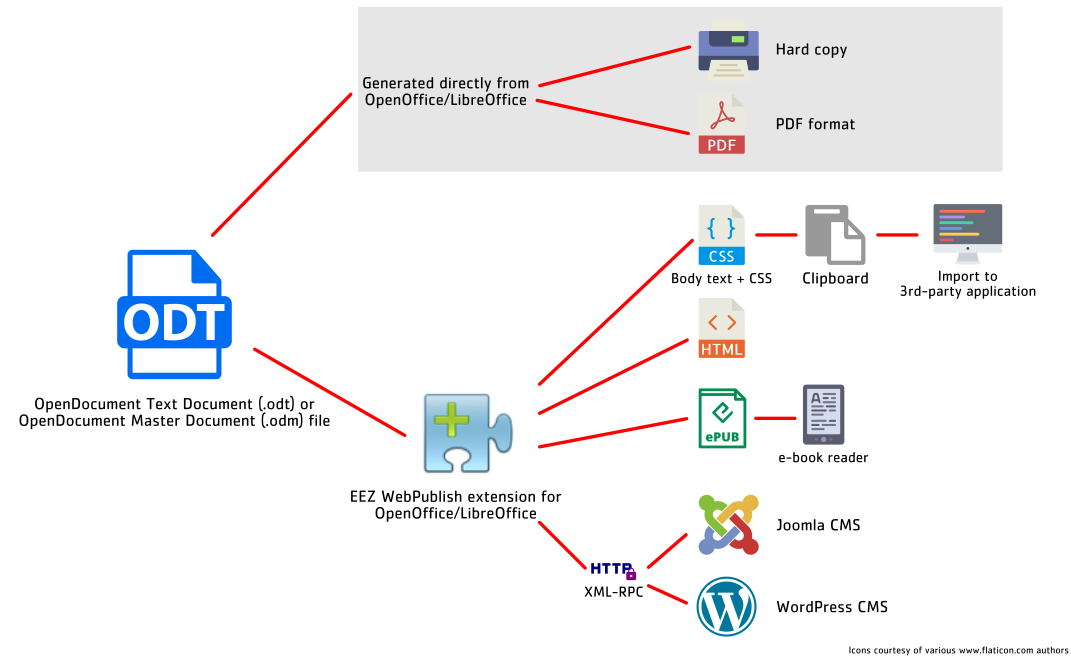
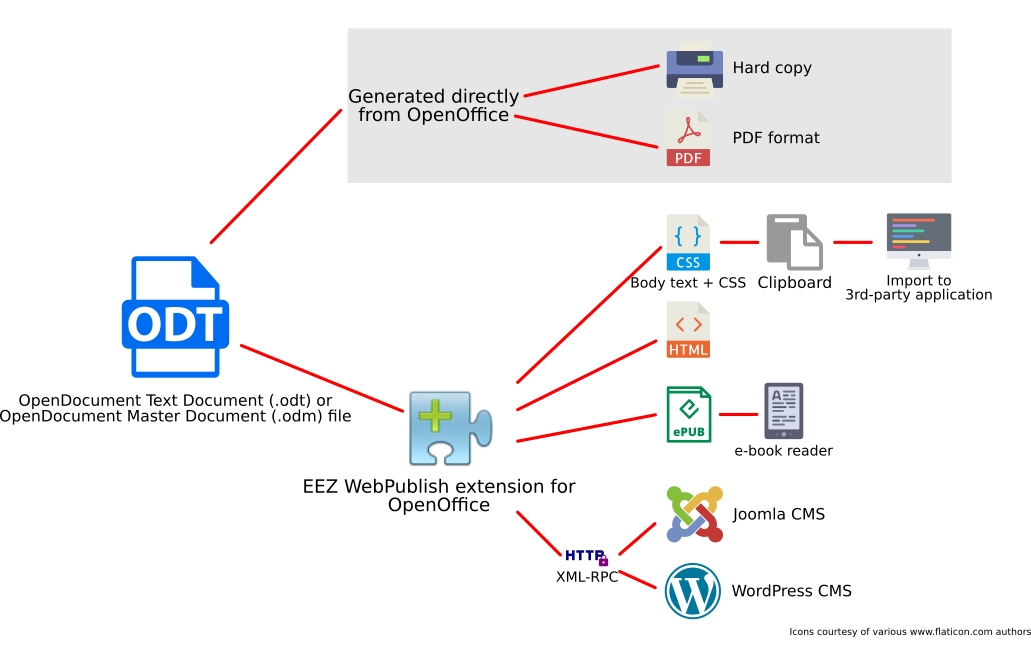
readme.me updated

diff --git a/README.md b/README.md
@@ -10,14 +10,14 @@ To report an issue, use the [EEZ WebPublish](https://github.com/eez-open/WebPubl
 
 ## Introduction
 
-The EEZ WebPublish extension for OpenOffice Writer and LibreOffice Writer enable conversion of _.odt_ file format to HTML and EPUB formats, copy of body text and CSS to clipboard and publishing to Joomla, WordPress CMS using Movable Type XML RPC.
+The EEZ WebPublish extension for OpenOffice Writer enables conversion of _.odt_ file format to HTML and EPUB formats, copy of body text and CSS to clipboard and publishing to Joomla (using Movable Type XML RPC) or WordPress (via RXL-RPC).
 Thanks to WebPublish it is possible to automate and speed up publishing procedure from single source (i.e. .odt file) to PDF, HTML, other document management applications (using clipboard), EPUB for e-book readers and Internet CMS (Joomla and WordPress).
  
 ![WebPublish overview](doc/images/webpublish_overview.png)
  
 
-The WebPublish require installed [OpenOffice](https://www.openoffice.org/download/) or [LibreOffice](https://www.libreoffice.org/download/download/) package and [Java Runtime Environment](http://www.oracle.com/technetwork/java/javase/overview/index.html) (JRE).
+The WebPublish require installed [OpenOffice](https://www.openoffice.org/download/) and [Java Runtime Environment](http://www.oracle.com/technetwork/java/javase/overview/index.html) (JRE).
 
-Reference document that include various .odt attributes can be found [here](https://github.com/eez-open/WebPublish/blob/master/doc/EEZ%20WebPublish%20test%20document.odt) and its HTML and EPUB outputs may vary between OpenOffice and LibreOffice WebPublish extension. The WebPublish for OpenOffice outputs can be found [here](https://github.com/eez-open/WebPublish/tree/master/OpenOffice/test%20outputs), and LibreOffice [here](https://github.com/eez-open/WebPublish/tree/master/LibreOffice/test%20outputs).
+Reference document that include various .odt attributes can be found [here](https://github.com/eez-open/WebPublish/blob/master/doc/EEZ%20WebPublish%20test%20document.odt). The WebPublish for OpenOffice outputs can be found [here](https://github.com/eez-open/WebPublish/tree/master/OpenOffice/test%20outputs).
 
 _All web pages on [EEZ web site](https://www.envox.hr/eez/) were generated with WebPublish for Joomla CMS._
